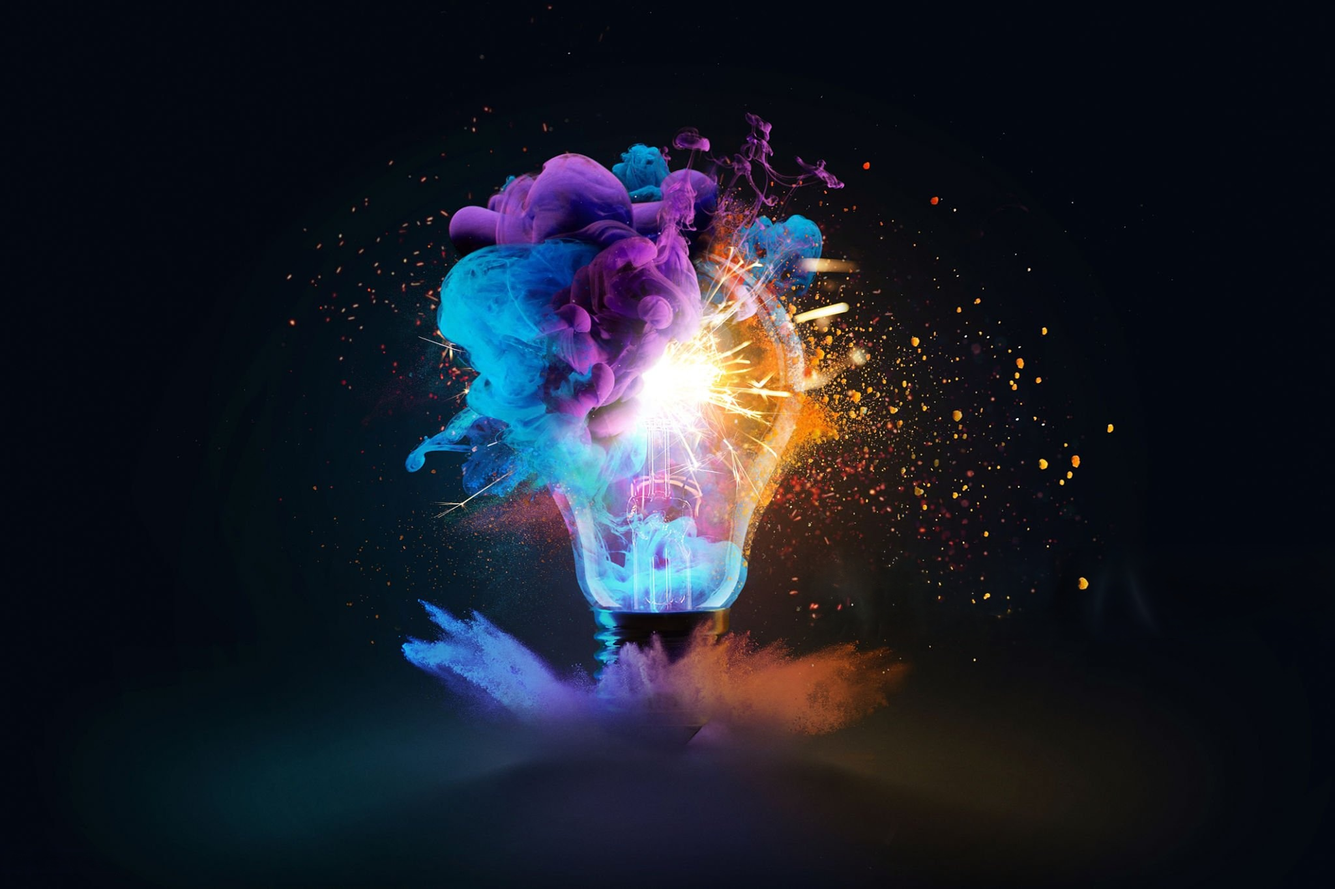
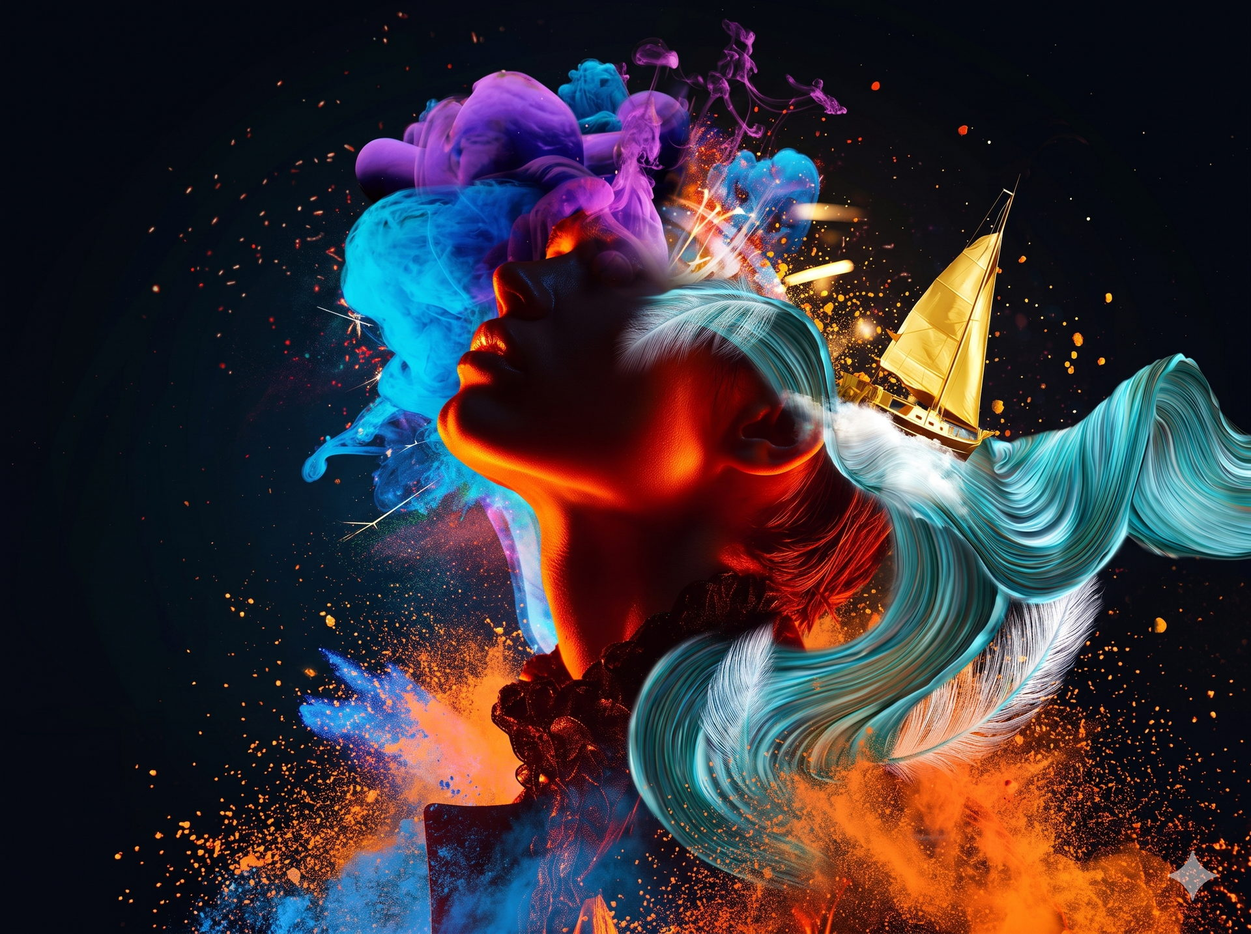
Use new artwork in homepage hero

diff --git a/app.js b/app.js
@@ -53,7 +53,7 @@
     const hero = stories[0];
     document.title = 'Fieldnotes — A concept publication built around curious ideas';
     setDescription('An independent publication exploring design, culture, technology, everyday observations, and curious ideas.');
-    main.innerHTML = `<section class="home-hero"><div class="hero-topline page-gutter"><span>FIELDNOTE NO. ${hero.issue}</span><span>AN INDEPENDENT JOURNAL OF CURIOSITY</span><span>VOL. 01 — 2026</span></div><div class="hero-grid page-gutter"><div class="hero-copy"><span class="eyebrow">${hero.topic} / A NOTE ON ATTENTION</span><h1>${esc(hero.title)}</h1><p class="hero-dek">${esc(hero.excerpt)}</p><div class="hero-byline"><span>Words by ${esc(hero.author)}</span><span>${formatDate(hero.publishedAt)}</span><span>${hero.readingTime} min read</span></div><a class="circle-link" href="${storyUrl(hero)}"><span>Read<br>the story</span><b>↗</b></a></div><div class="hero-image" aria-hidden="true"><img src="${routePath('/assets/fieldnotes-hero.jpeg')}" alt="" width="2048" height="1365" fetchpriority="high"></div><aside class="hero-edition"><div class="hero-edition-top"><span>FIELDNOTE</span><span>NO. ${hero.issue}</span></div><p>A spark of<br>curiosity.</p><a href="${storyUrl(hero)}">EXPLORE THE STORY <b>↗</b></a></aside></div><div class="hero-bottom page-gutter"><span>DESIGN · CULTURE · EVERYDAY LIFE</span><a href="${routePath('/journal/')}">ENTER THE JOURNAL ↓</a><span>SCROLL TO WANDER</span></div></section><section class="section page-gutter recent"><div class="section-heading"><div><span class="eyebrow">NOTES FROM THE PRESENT</span><h2>Recent observations<span class="accent">.</span></h2></div><a href="${routePath('/journal/')}" class="text-link">All stories ↗</a></div><div class="feature-row">${card(stories[1], 'wide')}${card(stories[2], 'compact')}</div><div class="story-pair">${card(stories[3])}${card(stories[4])}</div></section><section class="interlude page-gutter"><span class="eyebrow">A WORKING THOUGHT · 01</span><p>“Curiosity begins<br>where certainty ends.”</p><div><span>FIELDNOTES, ISSUE 001</span><span>KEEP LOOKING ↗</span></div></section><section class="section topics-section page-gutter"><div class="section-heading"><div><span class="eyebrow">A MAP, WITH ROOM TO WANDER</span><h2>Ideas worth following<span class="accent">.</span></h2></div><a href="${routePath('/topics/')}" class="text-link">Topic index ↗</a></div>${topicIndex()}</section><div class="page-gutter">${newsletter()}</div>`;
+    main.innerHTML = `<section class="home-hero"><div class="hero-topline page-gutter"><span>FIELDNOTE NO. ${hero.issue}</span><span>AN INDEPENDENT JOURNAL OF CURIOSITY</span><span>VOL. 01 — 2026</span></div><div class="hero-grid page-gutter"><div class="hero-copy"><span class="eyebrow">${hero.topic} / A NOTE ON ATTENTION</span><h1>${esc(hero.title)}</h1><p class="hero-dek">${esc(hero.excerpt)}</p><div class="hero-byline"><span>Words by ${esc(hero.author)}</span><span>${formatDate(hero.publishedAt)}</span><span>${hero.readingTime} min read</span></div><a class="circle-link" href="${storyUrl(hero)}"><span>Read<br>the story</span><b>↗</b></a></div><div class="hero-image" aria-hidden="true"><img src="${routePath('/assets/fieldnotes-hero.jpeg?v=hero-image2')}" alt="" width="1920" height="1434" fetchpriority="high"></div><aside class="hero-edition"><div class="hero-edition-top"><span>FIELDNOTE</span><span>NO. ${hero.issue}</span></div><p>A spark of<br>curiosity.</p><a href="${storyUrl(hero)}">EXPLORE THE STORY <b>↗</b></a></aside></div><div class="hero-bottom page-gutter"><span>DESIGN · CULTURE · EVERYDAY LIFE</span><a href="${routePath('/journal/')}">ENTER THE JOURNAL ↓</a><span>SCROLL TO WANDER</span></div></section><section class="section page-gutter recent"><div class="section-heading"><div><span class="eyebrow">NOTES FROM THE PRESENT</span><h2>Recent observations<span class="accent">.</span></h2></div><a href="${routePath('/journal/')}" class="text-link">All stories ↗</a></div><div class="feature-row">${card(stories[1], 'wide')}${card(stories[2], 'compact')}</div><div class="story-pair">${card(stories[3])}${card(stories[4])}</div></section><section class="interlude page-gutter"><span class="eyebrow">A WORKING THOUGHT · 01</span><p>“Curiosity begins<br>where certainty ends.”</p><div><span>FIELDNOTES, ISSUE 001</span><span>KEEP LOOKING ↗</span></div></section><section class="section topics-section page-gutter"><div class="section-heading"><div><span class="eyebrow">A MAP, WITH ROOM TO WANDER</span><h2>Ideas worth following<span class="accent">.</span></h2></div><a href="${routePath('/topics/')}" class="text-link">Topic index ↗</a></div>${topicIndex()}</section><div class="page-gutter">${newsletter()}</div>`;
     wireNewsletter();
   }
 

diff --git a/index.html b/index.html
@@ -1,2 +1,2 @@
-<!doctype html><html lang="en"><head><meta charset="utf-8"><meta name="viewport" content="width=device-width, initial-scale=1"><meta name="theme-color" content="#f5f2eb"><meta name="description" content="An independent publication exploring design, culture, technology, and the quiet art of noticing."><link rel="stylesheet" href="./styles.css?v=hero-layout2"><title>Fieldnotes — A concept publication built around curious ideas</title></head><body><a class="skip-link" href="#main-content">Skip to content</a><div id="site-header"></div><main id="main-content" tabindex="-1"></main><div id="site-footer"></div><script src="./content.js" defer></script><script src="./app.js?v=hero4" defer></script></body></html>
+<!doctype html><html lang="en"><head><meta charset="utf-8"><meta name="viewport" content="width=device-width, initial-scale=1"><meta name="theme-color" content="#f5f2eb"><meta name="description" content="An independent publication exploring design, culture, technology, and the quiet art of noticing."><link rel="stylesheet" href="./styles.css?v=hero-layout2"><title>Fieldnotes — A concept publication built around curious ideas</title></head><body><a class="skip-link" href="#main-content">Skip to content</a><div id="site-header"></div><main id="main-content" tabindex="-1"></main><div id="site-footer"></div><script src="./content.js" defer></script><script src="./app.js?v=hero5" defer></script></body></html>
 
